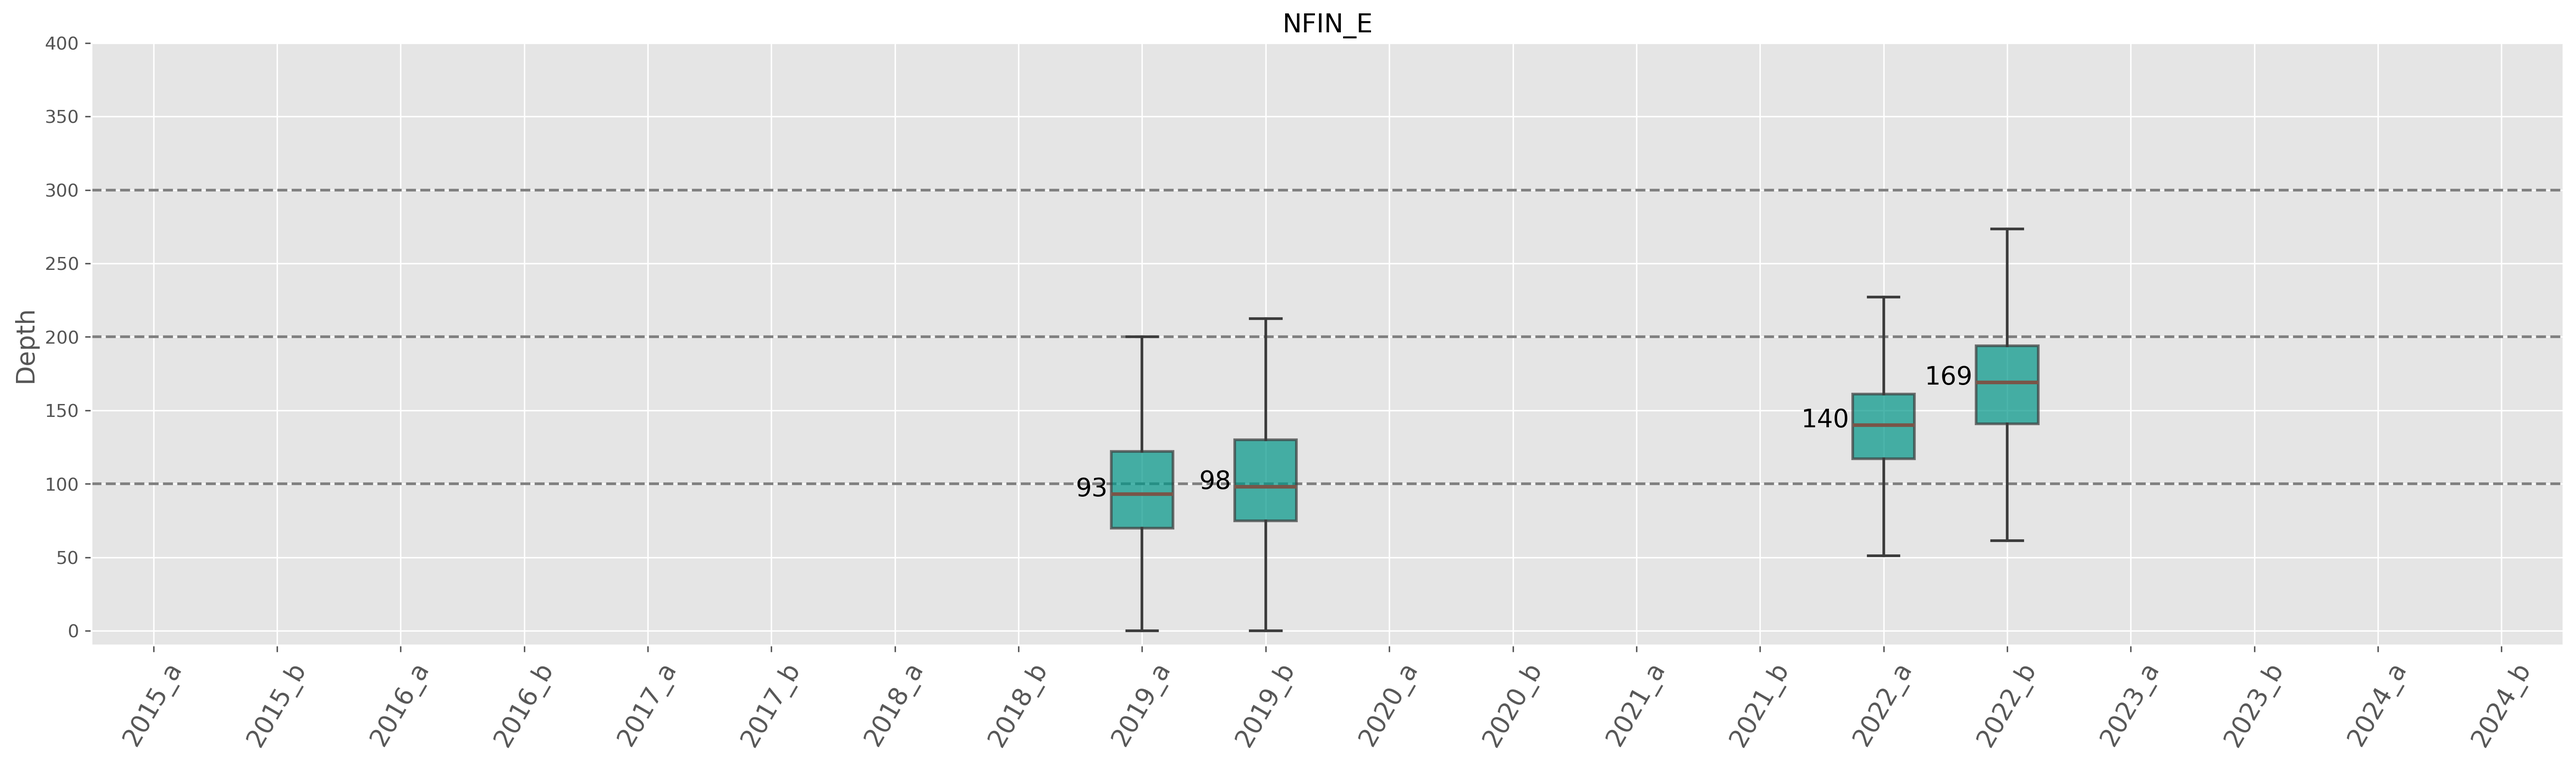
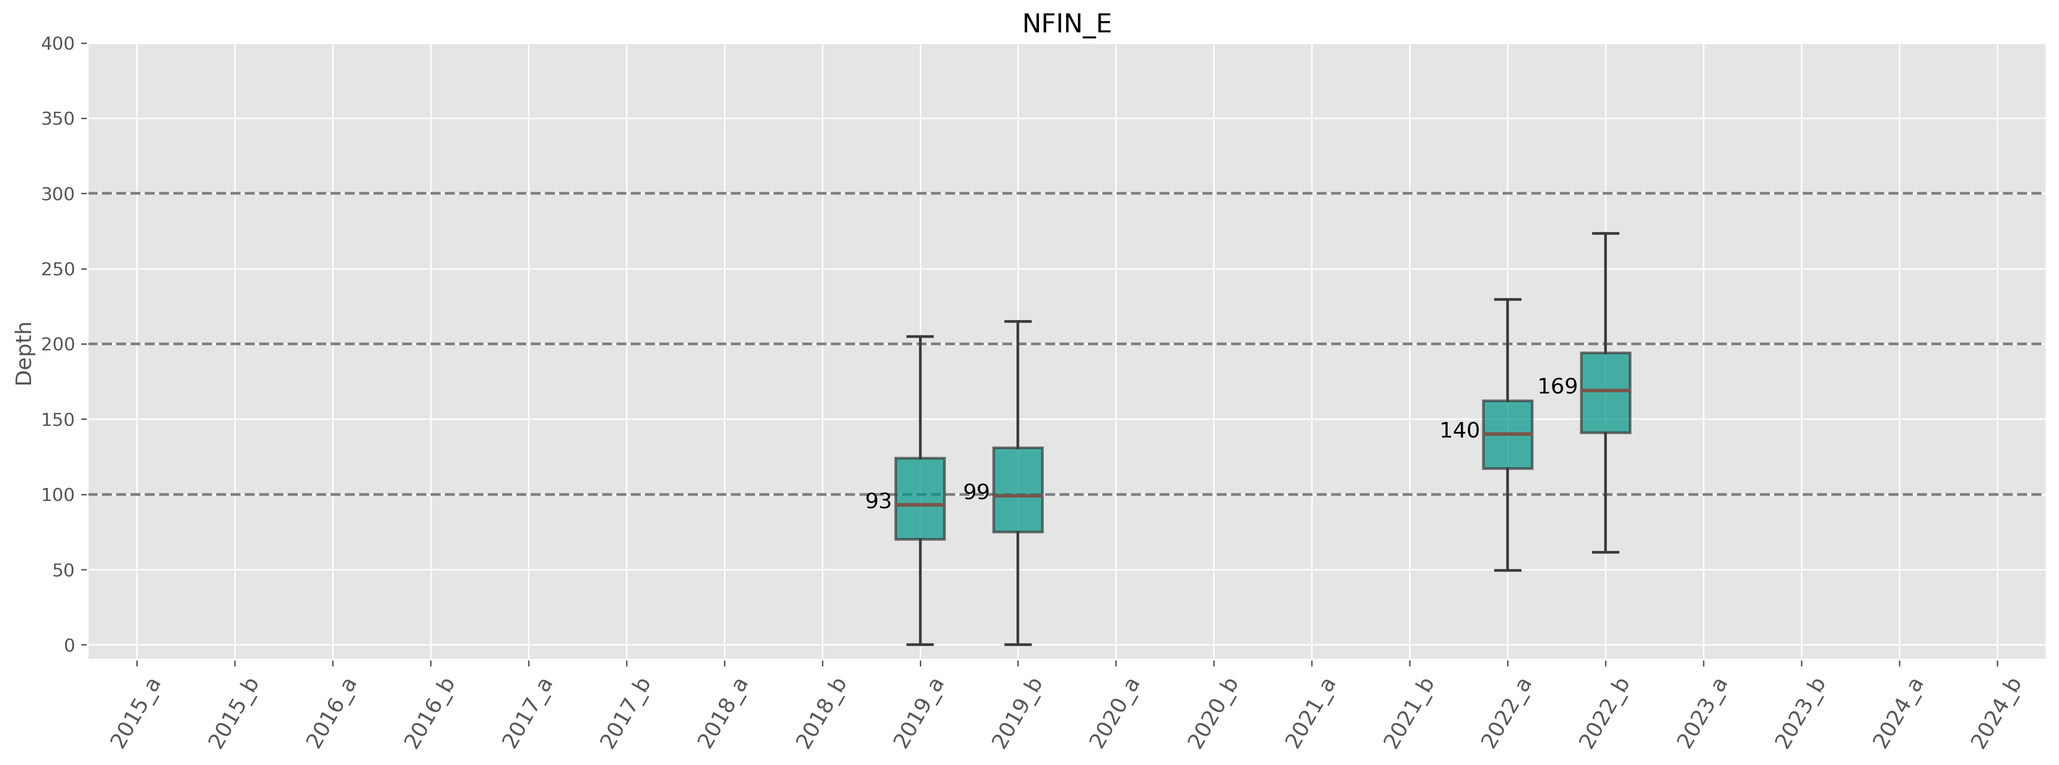
boxplots update

diff --git a/04_varcalls/03_depth_boxplots.py b/04_varcalls/03_depth_boxplots.py
@@ -69,7 +69,7 @@ def make_boxplots(stats_file):
             actual_labels.append(label)
 
         # Create a new figure for each group
-        fig, ax = plt.subplots(figsize=(20, 6))
+        fig, ax = plt.subplots(figsize=(16, 6))
         ax.axhline(100, color='gray', linestyle='--')
         ax.axhline(200, color='gray', linestyle='--')
         ax.axhline(300, color='gray', linestyle='--')
@@ -90,10 +90,10 @@ def make_boxplots(stats_file):
             cap.set(color=edge_color, linewidth=1.5)
         for pos, box in zip(positions, boxplot_data):
             if box['med'] is not None:
-                ax.text(pos - 0.28, box['med'] -5 , f"{box['med']:.0f}", ha='right', va='bottom', fontsize=14, color='black')
-        ax.set_xticklabels(actual_labels, rotation=60, fontsize=14)        
+                ax.text(pos - 0.28, box['med'] -5 , f"{box['med']:.0f}", ha='right', va='bottom', fontsize=12, color='black')
+        ax.set_xticklabels(actual_labels, rotation=60, fontsize=12)        
         ax.set_title(prefix)        
-        ax.set_ylabel("Depth", fontsize=14)        
+        ax.set_ylabel("Depth", fontsize=12)        
         plt.ylim(-10, 400)
         plt.tight_layout()        
         plot_name = prefix + ".SNPs_depth.png"       
